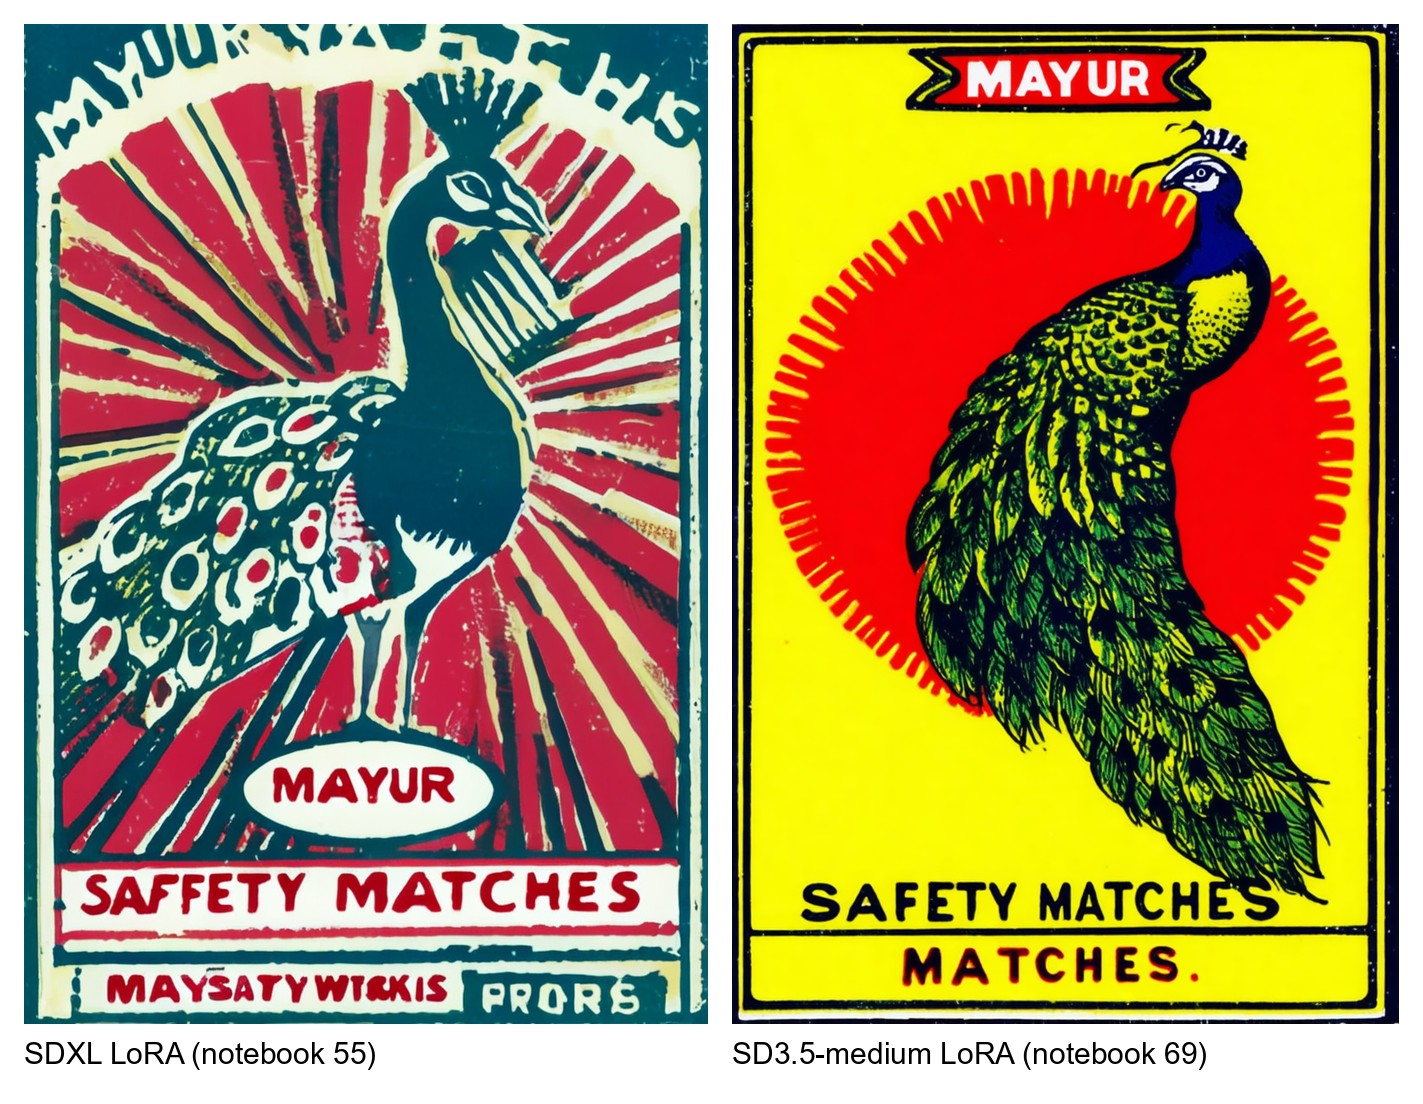
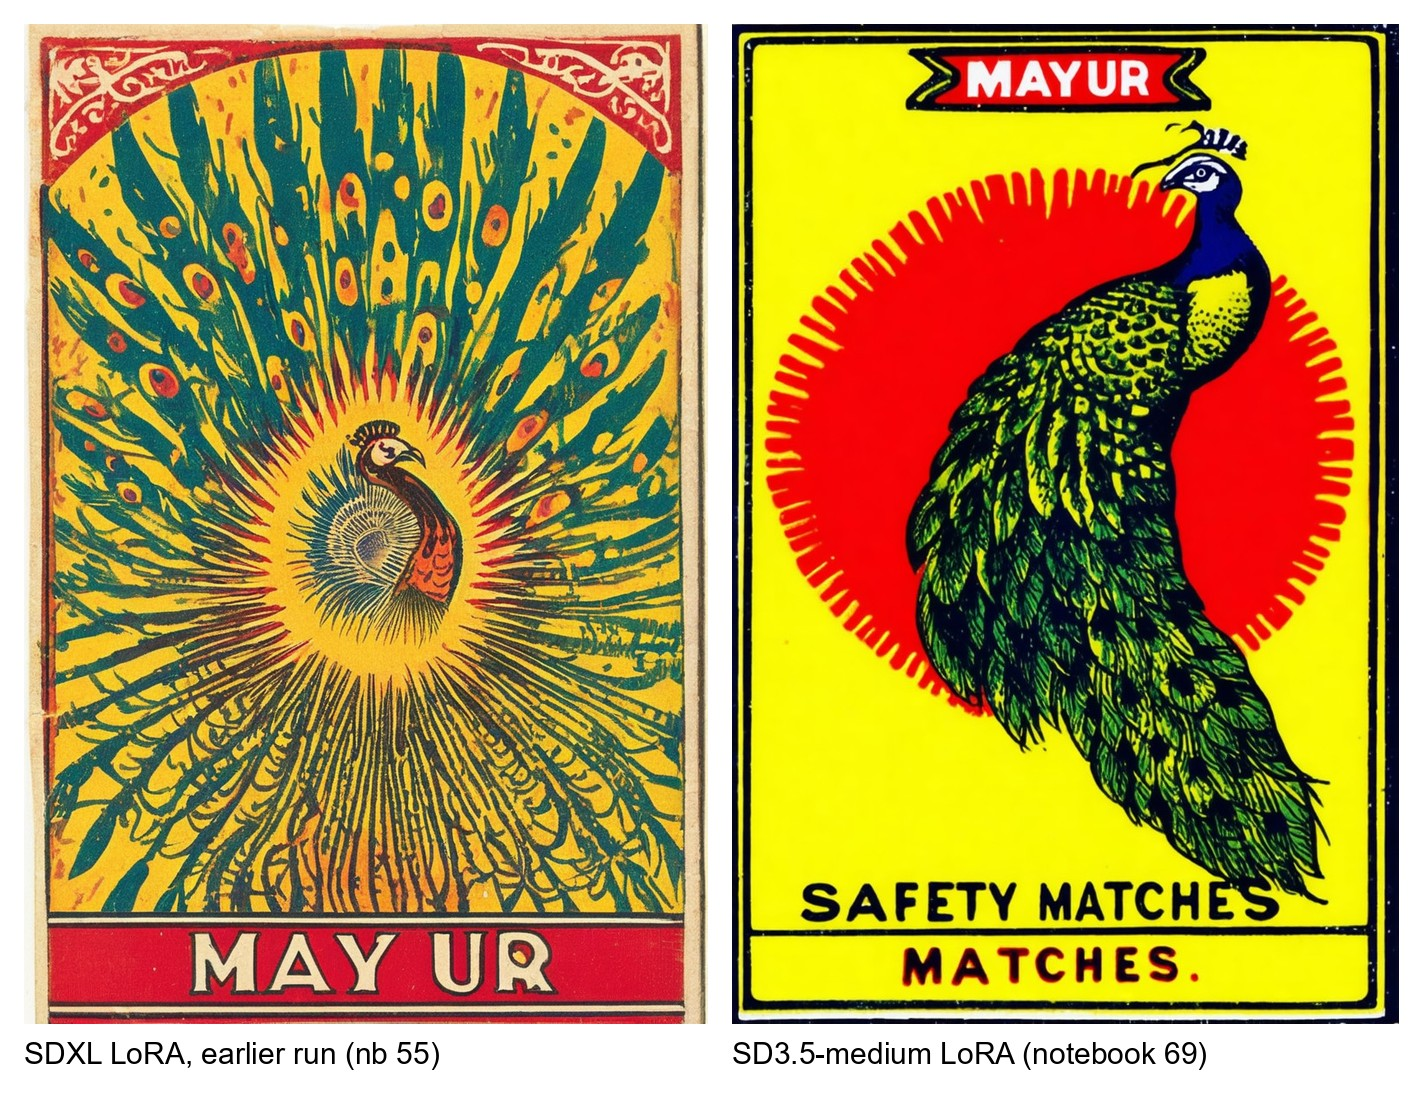
Gallery peacock: earlier-run seed 4; MAYUR comparison: earlier-run seed 478163327, marked as such

diff --git a/README.md b/README.md
@@ -52,13 +52,15 @@ these are each model's typical output, not a single-variable experiment.
 
 <p align="center"><b>PUSSY</b><br><img src="images/compare/compare_pussy_cat.jpg" width="560" alt="PUSSY: SDXL LoRA left, SD3.5-medium LoRA right"></p>
 
-Left of each pair: SDXL LoRA (notebook 55). Right: SD3.5-medium LoRA (notebook 69).
+Left of each pair: SDXL LoRA (notebook 55). Right: SD3.5-medium LoRA (notebook 69). The SDXL image in
+the MAYUR pair comes from the earlier SDXL run of notebook 55 (trained on museum prints, weights not
+published, seed 478163327 at strength 0.8); the other four SDXL images come from the published SDXL LoRA.
 
 ### What differs, as seen in these pairs
 
 * **Lettering.** The SD3.5-medium LoRA spells the headline correctly in all five pairs (EXPRESS,
   JUMBO, LOVE BIRDS, MAYUR, PUSSY); its small secondary text is still often garbled. The SDXL LoRA
-  gets some headlines right and misspells others ("LOVE BRRDS", "SAFFETY MATCHES"), and fills the
+  gets some headlines right and misspells others ("LOVE BRRDS", "JJUMBO", "MAY UR"), and fills the
   label with more invented lines of pseudo-text.
 * **Colour and finish.** SD3.5-medium produces flat, saturated colour fields (pure reds, yellows
   and blues) with clean outlines, like a crisp reprint. SDXL produces a muted palette with
